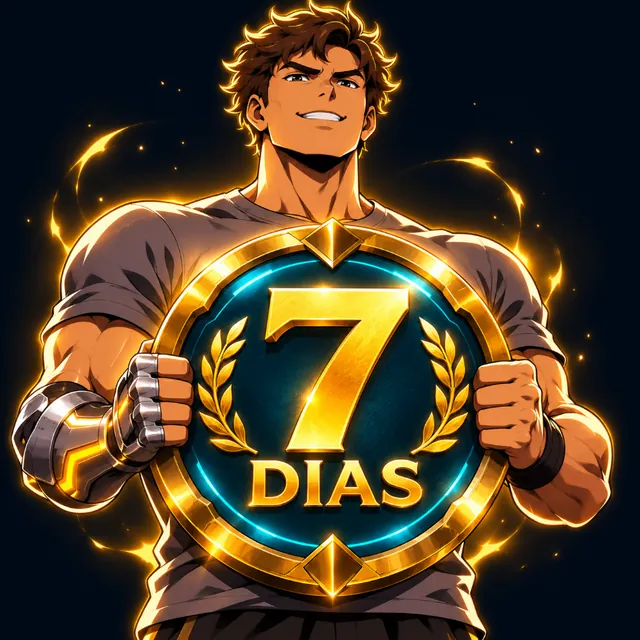
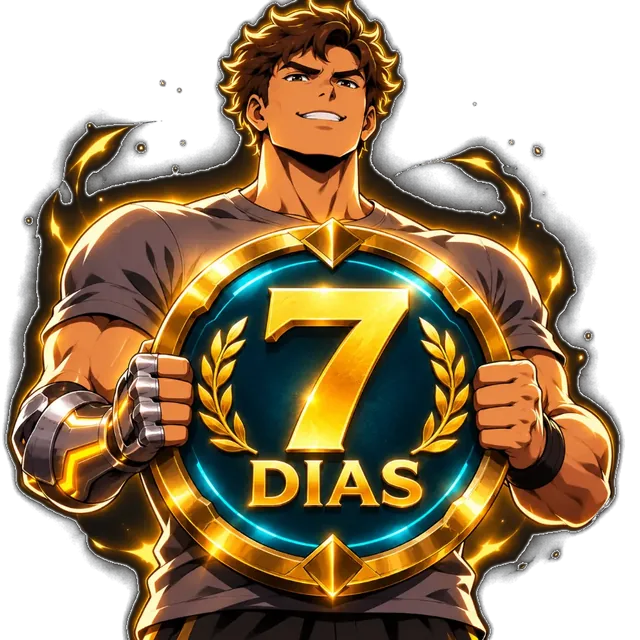
Garantia: imagem sem borda e sem fundo
Claude-Session: https://claude.ai/code/session_01LVe9Kqr91i9gE3MjA7A5uT

diff --git a/index.html b/index.html
@@ -176,7 +176,7 @@ section{position:relative}
 .ticks li{padding-left:30px;position:relative;font-weight:600}
 .ticks li:before{content:"";position:absolute;left:4px;top:7px;width:12px;height:12px;border:2px solid var(--cy2);transform:rotate(45deg);box-shadow:0 0 8px var(--cy)}
 .guar{display:flex;flex-wrap:wrap;gap:26px;align-items:center;max-width:900px;margin:44px auto 0;padding:24px 28px;border-color:rgba(255,210,122,.55);box-shadow:0 0 24px rgba(255,198,90,.2)}
-.guar img{width:230px;height:230px;object-fit:cover;flex:none;border:1px solid rgba(255,210,122,.5);box-shadow:0 0 22px rgba(255,198,90,.35)}
+.guar img{width:260px;height:260px;object-fit:contain;flex:none;margin:-30px -10px -30px -20px;filter:drop-shadow(0 0 24px rgba(255,198,90,.35));-webkit-mask-image:radial-gradient(circle at 50% 50%,#000 62%,transparent 72%);mask-image:radial-gradient(circle at 50% 50%,#000 62%,transparent 72%)}
 .guar>div{flex:1 1 300px;min-width:0}
 
 /* FAQ */
